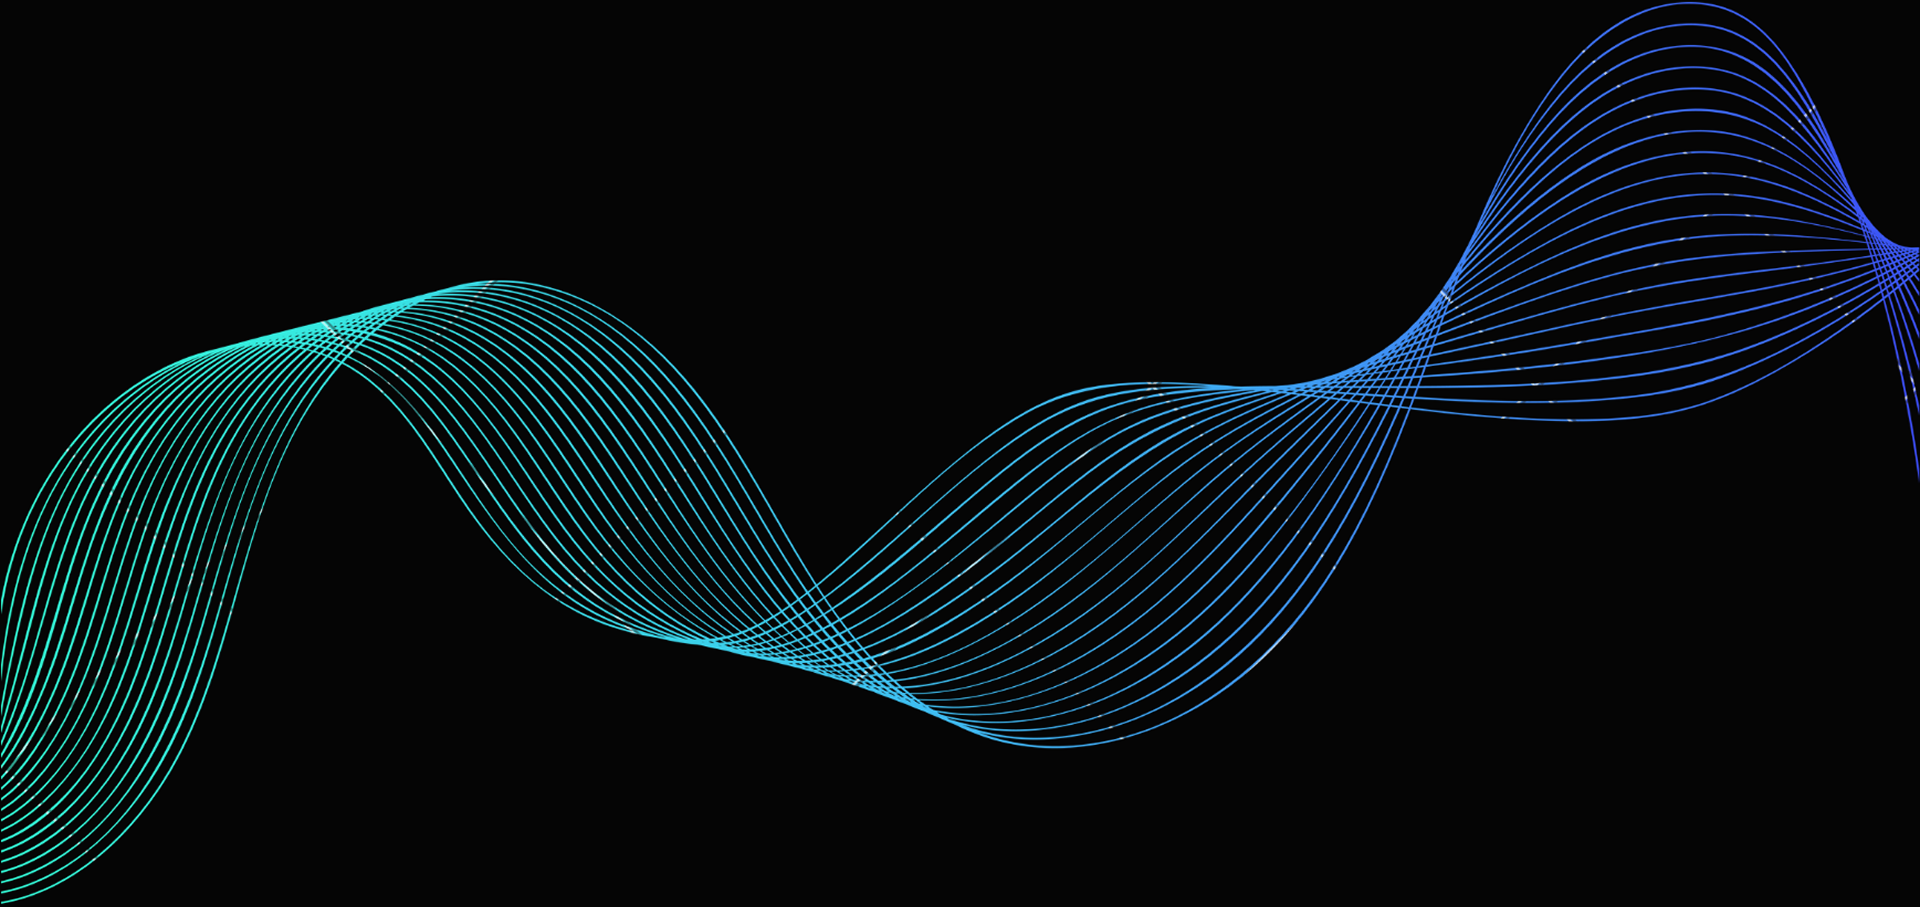
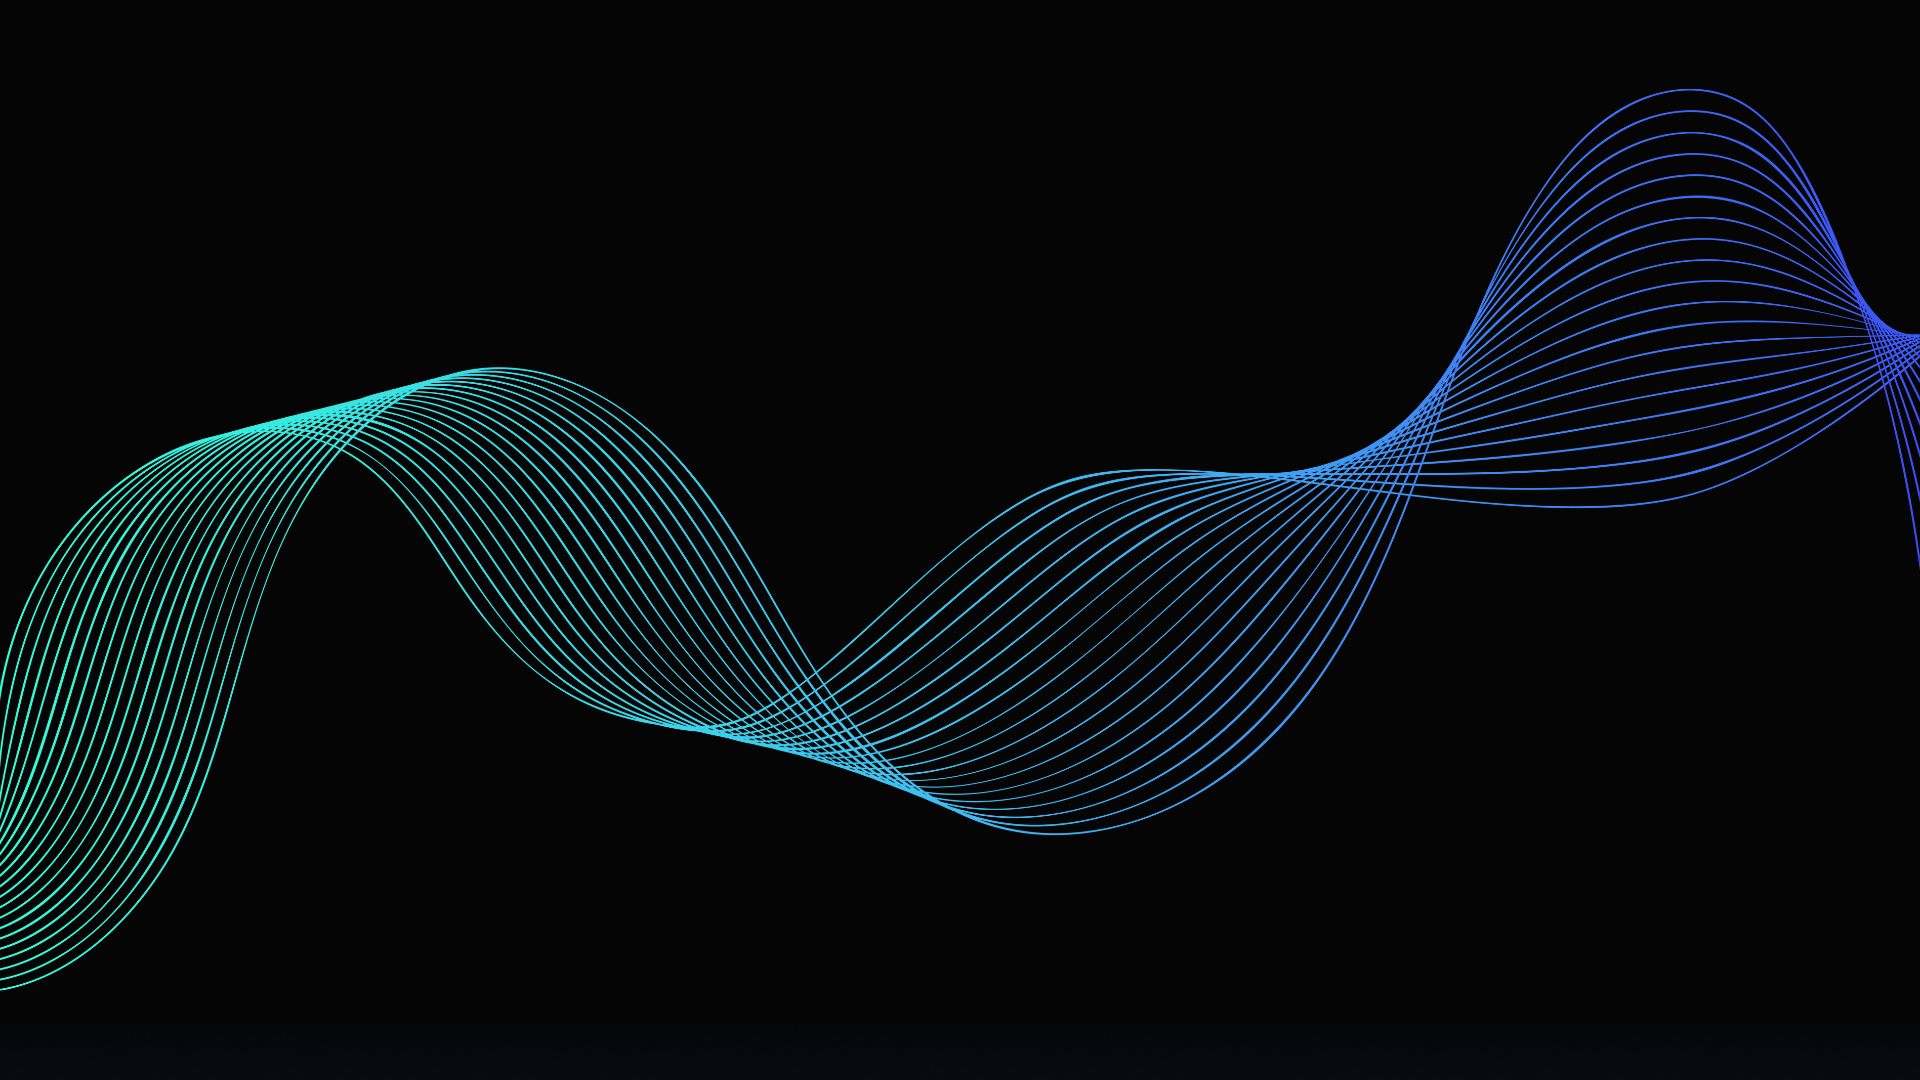
chore: adjustment assets for bettler quality

Changed region(s): [[0.0, 0.0, 1.0, 1.0]]

diff --git a/src/components/PosBandeiras/PosBandeiras.tsx b/src/components/PosBandeiras/PosBandeiras.tsx
@@ -16,7 +16,7 @@ const PosBandeiras = () => {
     <div className="relative min-h-screen bg-black overflow-hidden flex flex-col justify-center py-20">
       {/* Imagem de fundo */}
       <img 
-        src="/img/background-ondas.png"
+        src="/img/pos-bg.png"
         alt="Ondas decorativas"
         className="absolute inset-0 w-full h-full object-cover z-0 opacity-50"
       />

diff --git a/src/components/Cambio/Cambio.tsx b/src/components/Cambio/Cambio.tsx
@@ -19,8 +19,10 @@ export default function Cambio() {
           Saiba Mais
         </button>
       </Content>
-
-      <SideImage src="/img/image-coin-cambio.png" alt="Imagem lateral" />
+      
+      <SideImage autoPlay loop muted playsInline>
+              <source src="/videos/exchange-coins.mp4" type="video/mp4" />
+            </SideImage>
     </Container>
   )
 }

diff --git a/src/components/CartaoVisa/CartaoVisa.tsx b/src/components/CartaoVisa/CartaoVisa.tsx
@@ -20,7 +20,9 @@ export default function CartaoVisa() {
         </button>
       </Content>
 
-      <SideImage src="/img/image-coin-cambio.png" alt="Imagem lateral" />
+      <SideImage autoPlay loop muted playsInline>
+        <source src="/videos/credit-card.mp4" type="video/mp4" />
+      </SideImage>
     </Container>
   )
 }

diff --git a/src/components/Cambio/style.tsx b/src/components/Cambio/style.tsx
@@ -31,7 +31,7 @@ export const Content = styled.div`
   max-width: 600px;
 `
 
-export const SideImage = styled.img`
+export const SideImage = styled.video`
   width: 400px;
   height: auto;
   object-fit: cover;

diff --git a/src/components/CartaoVisa/style.tsx b/src/components/CartaoVisa/style.tsx
@@ -31,7 +31,7 @@ export const Content = styled.div`
   max-width: 600px;
 `
 
-export const SideImage = styled.img`
+export const SideImage = styled.video`
   width: 400px;
   height: auto;
   object-fit: cover;
